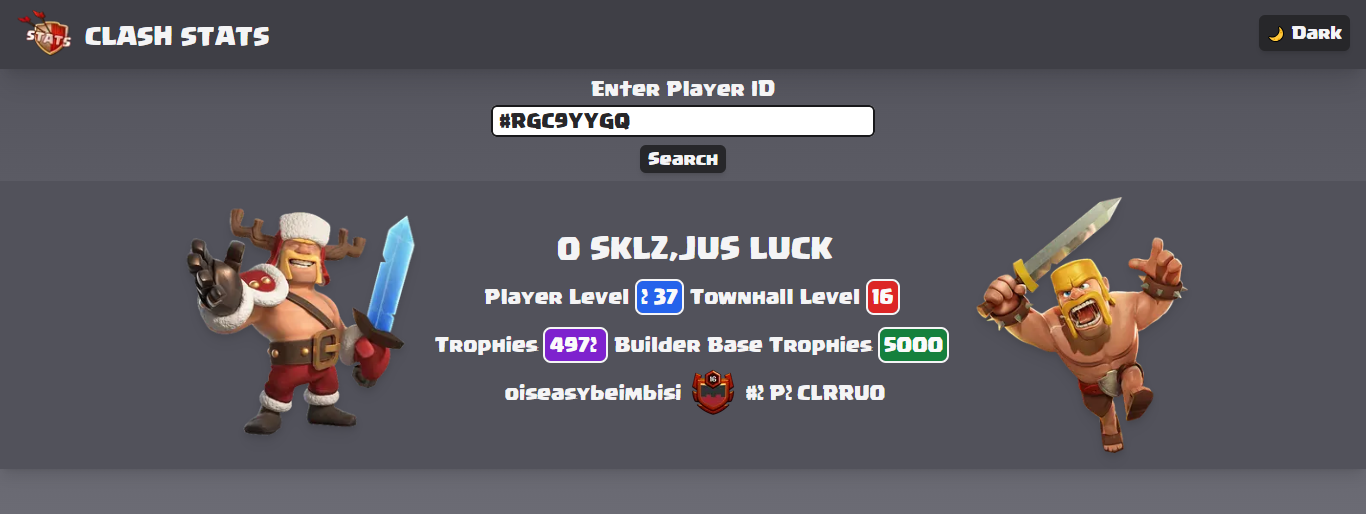
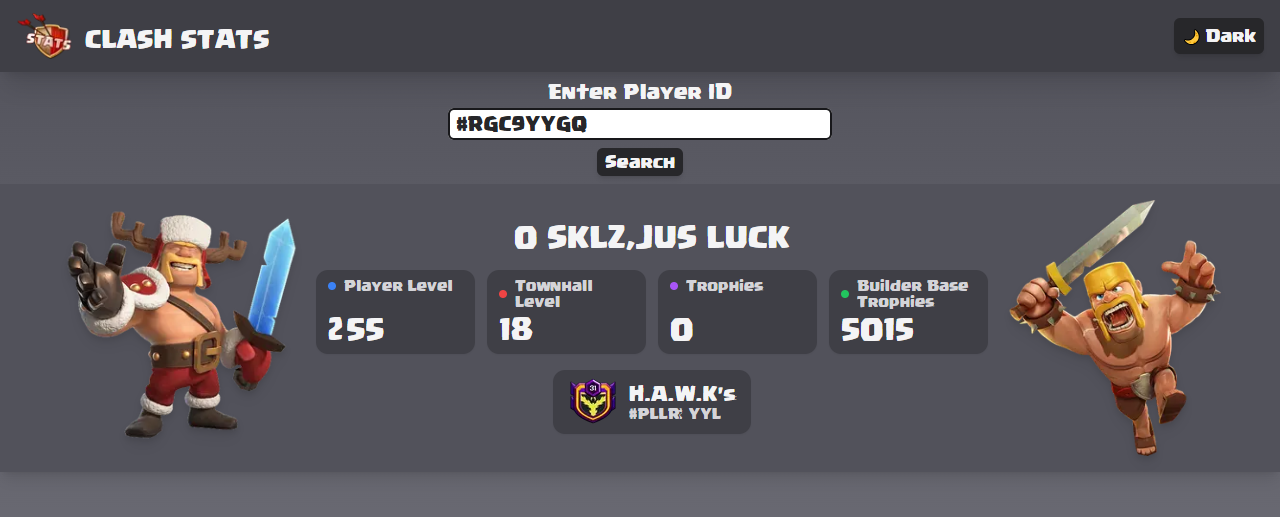
Update README and preview image
- New preview showing the redesigned stats cards
- Add live link, features, tech stack, setup and test instructions
- Briefly explain why the RoyaleAPI proxy is used in production
- Use a relative image path so the preview also renders on branches

diff --git a/README.md b/README.md
@@ -1,14 +1,55 @@
-# Clash of Clans API
+# Clash Stats
 
-Enter your player ID and receive your Clash of Clans Statistics.
+Look up any Clash of Clans player by their player tag and see their level, Town Hall, trophies and clan at a glance.
 
-![Clash Stats Preview](https://github.com/StackOverflowIsBetterThanAnyAI/clash-of-clans-api/blob/master/preview.png)
+**Live:** [clash-of-clans-api-alpha.vercel.app](https://clash-of-clans-api-alpha.vercel.app)
 
-## Environment Variables
+![Clash Stats Preview](preview.png)
 
-| Variable           | Description                                                                         |
-| ------------------ | ----------------------------------------------------------------------------------- |
-| `COC_API_KEY`      | API key from [developer.clashofclans.com](https://developer.clashofclans.com)       |
-| `COC_API_BASE_URL` | Optional, defaults to `https://api.clashofclans.com/v1`                             |
+## Features
 
-Clash of Clans API keys are bound to whitelisted IP addresses. Serverless hosts like Vercel have no static IP, so set `COC_API_BASE_URL` to `https://cocproxy.royaleapi.dev/v1` and create a key for the IP `45.79.218.79` of the [RoyaleAPI proxy](https://docs.royaleapi.com/proxy.html).
+-   Player search by tag, e.g. `#RGC9YYGQ`
+-   Player level, Town Hall level, trophies, Builder Base trophies and clan
+-   Light and dark mode, remembered across visits
+-   Responsive layout, built with WCAG 2.2 AA in mind
+
+## Tech Stack
+
+[Next.js](https://nextjs.org) 15, React 19, TypeScript, Tailwind CSS, Jest and Cypress
+
+## Getting Started
+
+```bash
+npm install
+npm run dev
+```
+
+The app runs on [localhost:3000](http://localhost:3000). It needs an API key in `.env.local`:
+
+```bash
+COC_API_KEY=your-api-key
+```
+
+### Environment Variables
+
+| Variable           | Description                                                                   |
+| ------------------ | ----------------------------------------------------------------------------- |
+| `COC_API_KEY`      | API key from [developer.clashofclans.com](https://developer.clashofclans.com) |
+| `COC_API_BASE_URL` | Optional, defaults to `https://api.clashofclans.com/v1`                       |
+
+### Why the RoyaleAPI Proxy?
+
+Clash of Clans API keys only work from whitelisted IP addresses. Vercel has no static IP, so the deployed app sends its requests through the free [RoyaleAPI proxy](https://docs.royaleapi.com/proxy.html), which has a fixed IP. In production `COC_API_BASE_URL` is set to `https://cocproxy.royaleapi.dev/v1` and the API key is created for the IP `45.79.218.79`.
+
+Locally you can use the official API directly with a key for your own IP.
+
+## Tests
+
+```bash
+npm test             # Jest unit tests
+npx cypress open     # Cypress e2e tests, requires npm run dev
+```
+
+## License
+
+[MIT](LICENSE)
